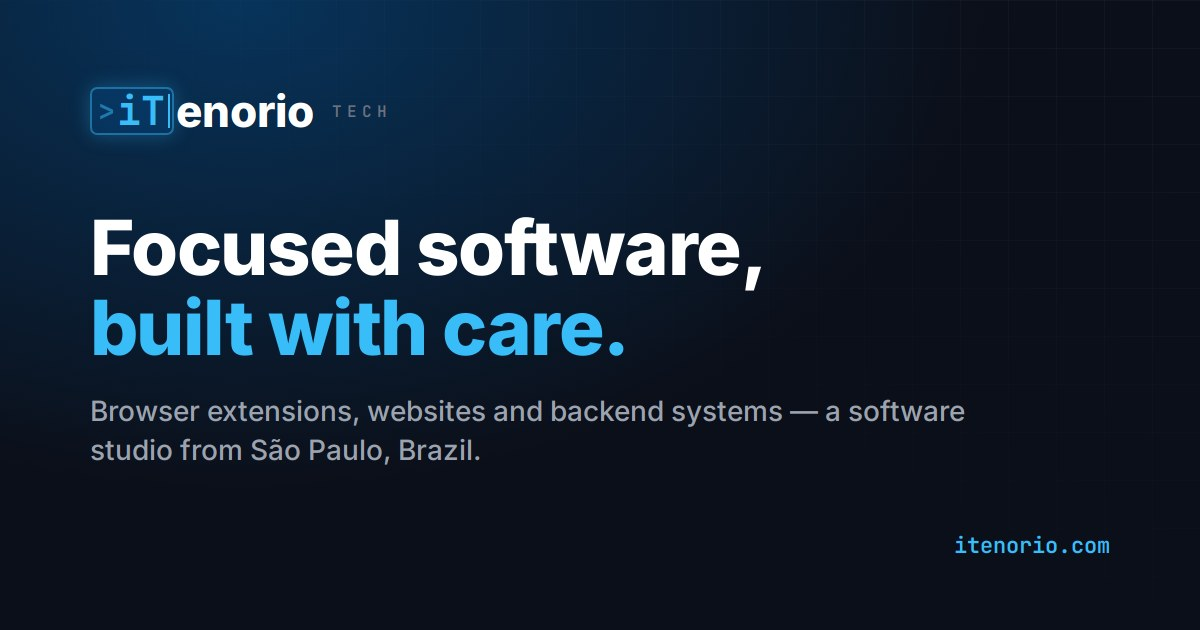
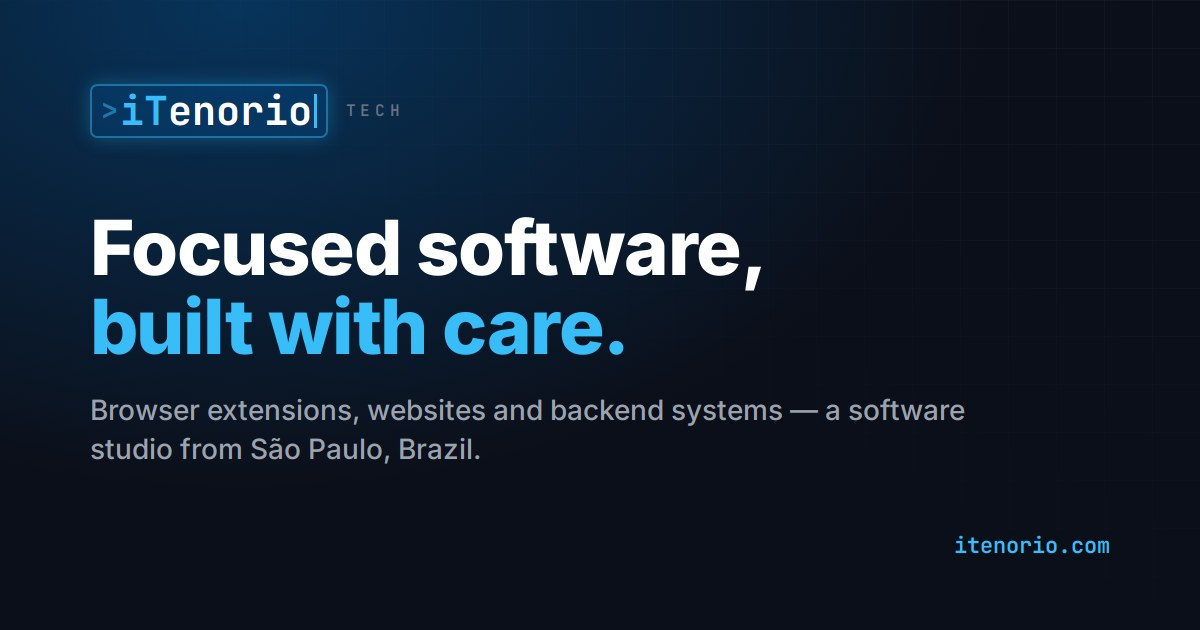
style: whole name inside the terminal box, caret at the end
>iTenorio| with iT highlighted; every part of the logo and TECH share the
same vertical centre. The share image uses the new logo.

diff --git a/src/components/layout/Logo.jsx b/src/components/layout/Logo.jsx
@@ -1,26 +1,25 @@
 import { Link } from "react-router-dom";
 
 // "iT" + "enorio": the brand is a play on IT (information technology) and
-// Tenorio, so the "iT" is drawn as a terminal-style chip.
+// Tenorio, so the whole name sits in a terminal-style box, with "iT"
+// highlighted and a blinking caret at the end.
 export const Logo = ({ className = "" }) => (
   <Link
     to="/"
-    className={`group inline-flex items-center gap-2 text-white hover:opacity-95 transition-opacity ${className}`}
+    className={`group inline-flex items-center gap-2.5 text-white hover:opacity-95 transition-opacity ${className}`}
     aria-label="iTenorio Tech — home"
   >
-    <span className="inline-flex items-center font-extrabold text-xl tracking-tight">
-      <span
-        className="relative mr-0 inline-flex items-center rounded-md border border-brand-soft/40 bg-brand/15 pl-1.5 pr-[3px] py-0.5 font-mono text-[1.05rem] leading-none text-brand-soft shadow-[0_0_14px_rgba(56,189,248,0.25)] transition-shadow group-hover:shadow-[0_0_20px_rgba(56,189,248,0.45)]"
-        aria-hidden="true"
-      >
-        <span className="text-brand-soft/50 mr-0.5 text-[0.8rem]">&gt;</span>
-        iT
-        <span className="logo-caret ml-[2px] inline-block h-[0.9em] w-[2px] bg-brand-soft" />
-      </span>
-      <span aria-hidden="true">enorio</span>
+    <span
+      className="inline-flex items-center rounded-md border border-brand-soft/40 bg-brand/15 px-2 py-1 font-mono text-[1.05rem] font-bold leading-none tracking-tight shadow-[0_0_14px_rgba(56,189,248,0.25)] transition-shadow group-hover:shadow-[0_0_20px_rgba(56,189,248,0.45)]"
+      aria-hidden="true"
+    >
+      <span className="mr-1 text-[0.8em] text-brand-soft/50">&gt;</span>
+      <span className="text-brand-soft">iT</span>
+      <span className="text-white">enorio</span>
+      <span className="logo-caret ml-[3px] h-[1em] w-[2px] bg-brand-soft" />
     </span>
     <span
-      className="text-[10px] font-mono font-semibold uppercase tracking-[0.25em] text-gray-500"
+      className="font-mono text-[10px] font-semibold uppercase leading-none tracking-[0.25em] text-gray-500"
       aria-hidden="true"
     >
       Tech
